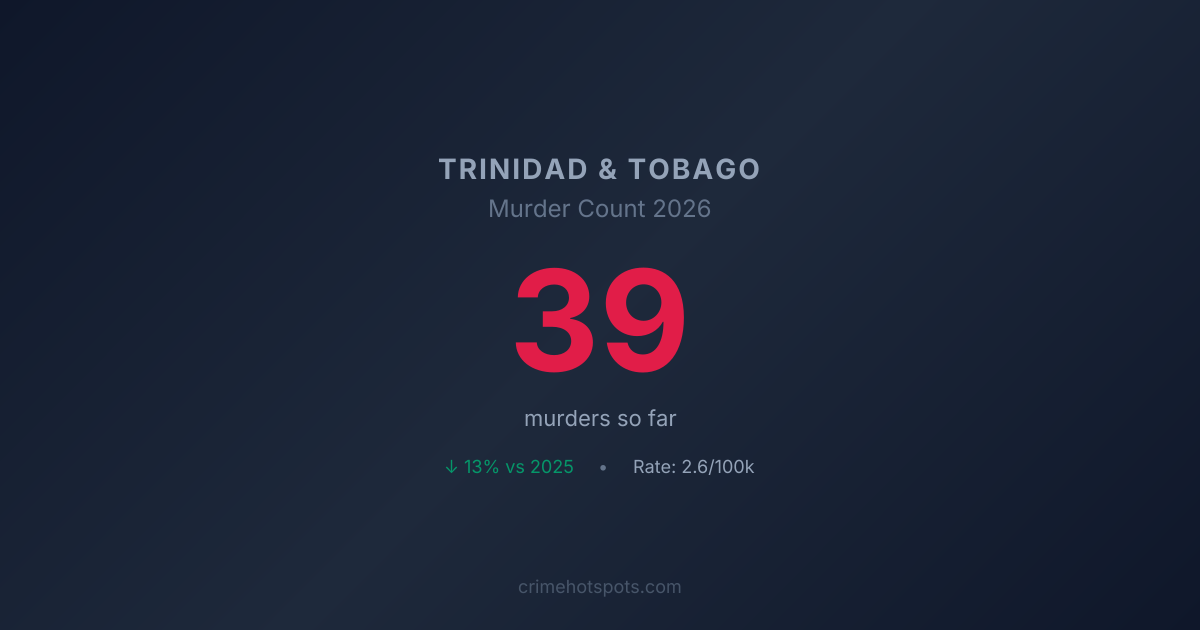
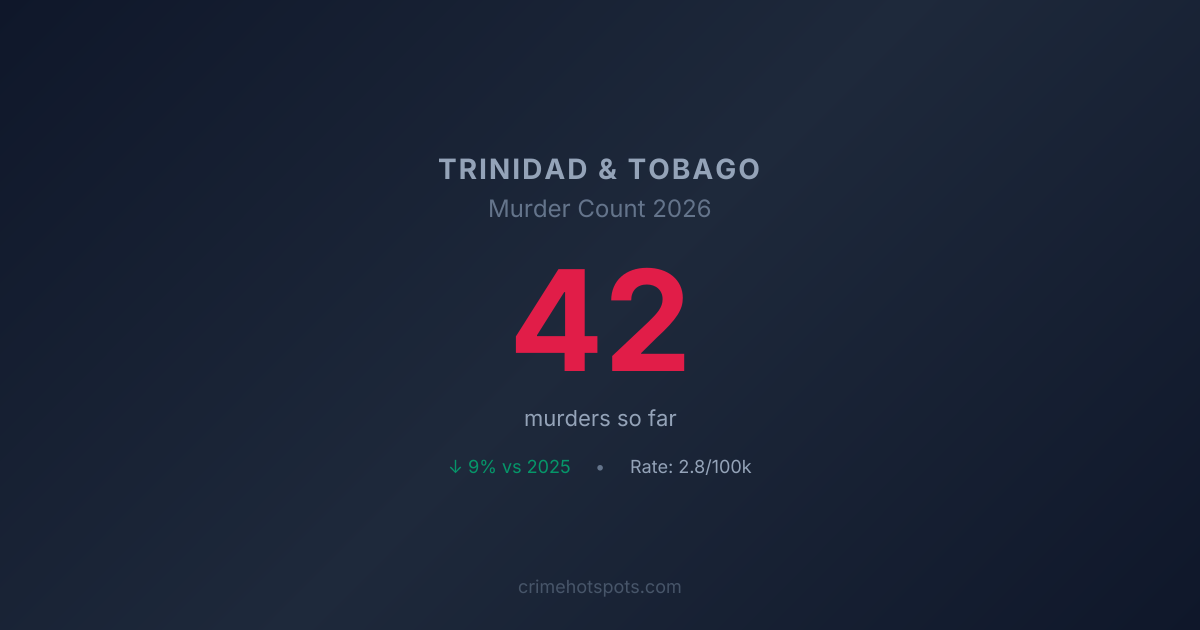
Section picker UX overhaul + Contact page + Privacy policy update
- SectionPickerModal: Visual hierarchy with "Start Here" badge on Dashboard
  - Primary sections (Dashboard, Headlines, Areas) displayed prominently
  - Secondary sections as compact pills below divider
  - Footer links to contact page for island coverage requests
- New /contact page with mailto-based contact (no form data collection)
- Privacy policy updated (Feb 6, 2026):
  - Added Cloudflare Web Analytics disclosure (cookieless)
  - Clarified two-tier analytics (CF always, GA4 consent-based)
  - Updated contact section for mailto workflow
- Footer: Added Contact to Quick Links
- About page: Links to contact page instead of inline email
- OG image: Murder count regenerated
- Claude client: Prompt refinements

Changed region(s): [[0.4317, 0.4222, 0.5858, 0.6032], [0.5242, 0.7238, 0.6475, 0.754], [0.37, 0.7238, 0.4933, 0.754]]

diff --git a/astro-poc/src/config/routes.ts b/astro-poc/src/config/routes.ts
@@ -20,6 +20,7 @@ export const routes = {
   blog: '/blog/',
   report: '/report/',
   about: '/about/',
+  contact: '/contact/',
   faq: '/faq/',
   methodology: '/methodology/',
   privacy: '/privacy/',
